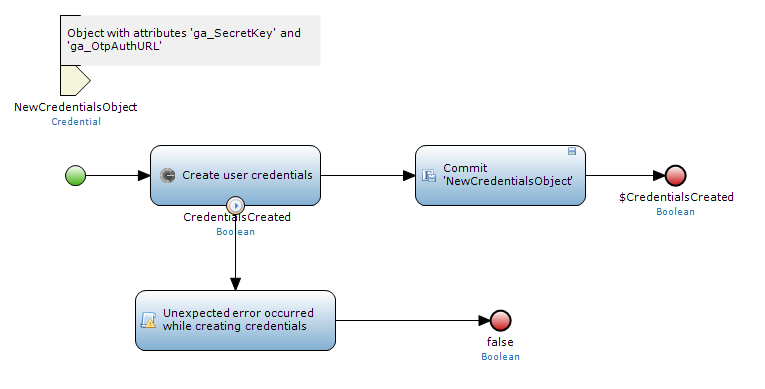
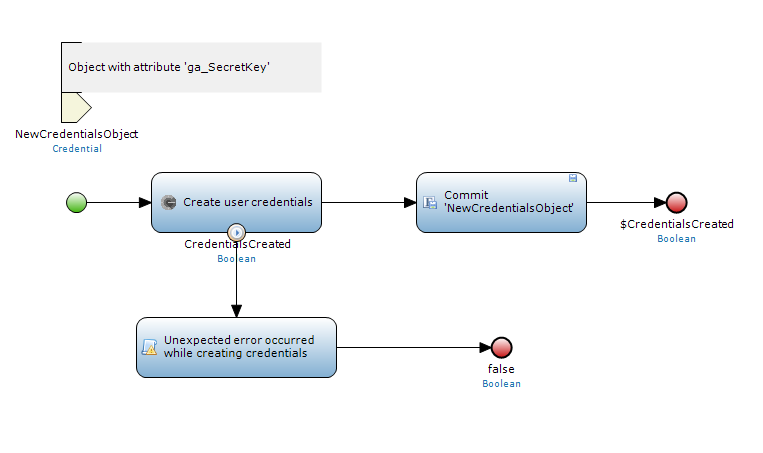
Removed  request to 3rd party to generate QR code image.

Changed region(s): [[0.0603, 0.3702, 0.9646, 0.9254], [0.0, 0.0617, 0.3919, 0.3393], [0.6029, 0.7404, 0.6933, 0.9254]]

diff --git a/javasource/googleauthenticator/actions/CreateCredentials.java b/javasource/googleauthenticator/actions/CreateCredentials.java
@@ -51,10 +51,11 @@ public class CreateCredentials extends CustomJavaAction<Boolean>
 		GoogleAuthenticator gAuth = new GoogleAuthenticator();
 		final GoogleAuthenticatorKey key = gAuth.createCredentials();
 		
-		String otpAuthURL = GoogleAuthenticatorQRGenerator.getOtpAuthURL(this.ApplicationName, this.UserName, key);
+//		convenient function for testing purposes
+//		String otpAuthURL = GoogleAuthenticatorQRGenerator.getOtpAuthURL(this.ApplicationName, this.UserName, key);
 		
 		CredentialsToSet.setValue(getContext(), "ga_SecretKey", key.getKey());	
-		CredentialsToSet.setValue(getContext(), "ga_OtpAuthURL", otpAuthURL);
+//		CredentialsToSet.setValue(getContext(), "ga_OtpAuthURL", otpAuthURL);
 		
 		return true;
 		// END USER CODE

diff --git a/README.md b/README.md
@@ -11,7 +11,9 @@ This connector enables you to
  
 ### Create credentials
  
- - Create a 'credentials' entity which is associated to your users to store the secret key and url for the QR code. Don't forget to set your entity access rules appropriately! Only your applications business logic should be able to read the secret key. It is adviced to store the image from the URL, and provide that image to the user. Only users should be able to view the QR code url associated to them. Clean up the used images.
+ - Create a 'credentials' entity which is associated to your users to store the secret key. Don't forget to set your entity access rules appropriately! Only your applications business logic should be able to read the secret key. 
+
+ - Use a QR code image generator from the Mendix App Store to create a QR code image.
 
  - Create a microflow which receives your 'credentials' entity and passes it as a parameter to the 'Google Authenticator Connector - Create user credentials' action. The action only sets the attributes in your entity so you need to commit the entity yourself. (This way you're free in how you take care of your entities and storing of objects). 
  
